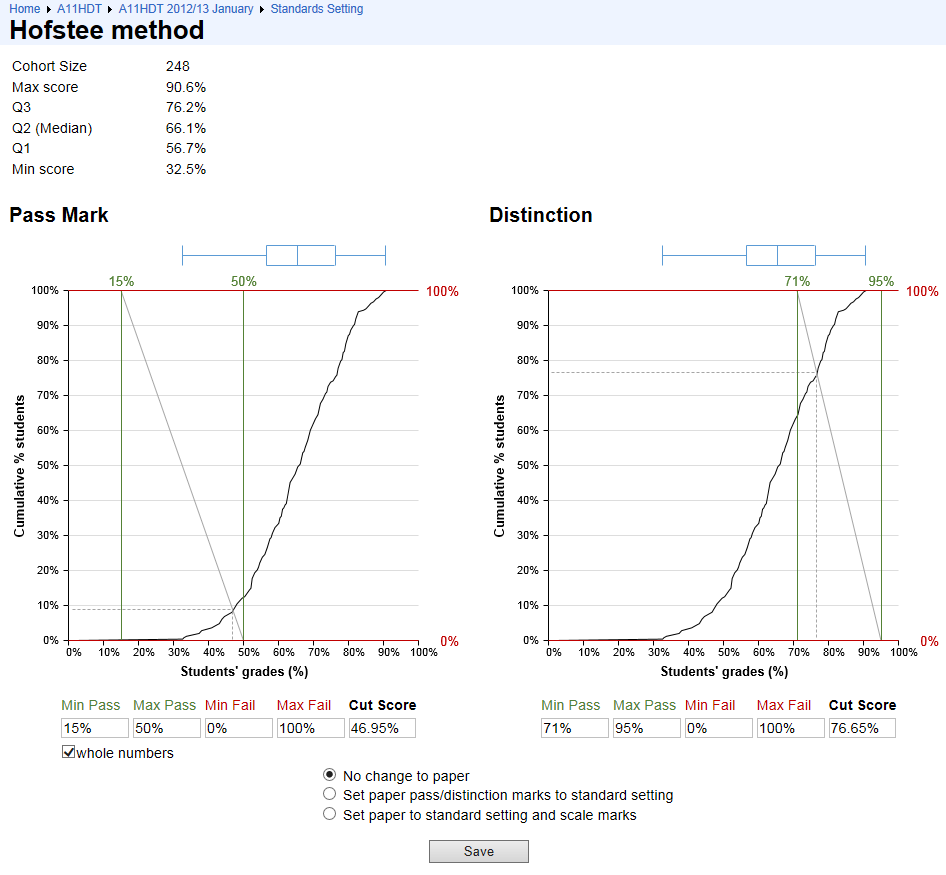
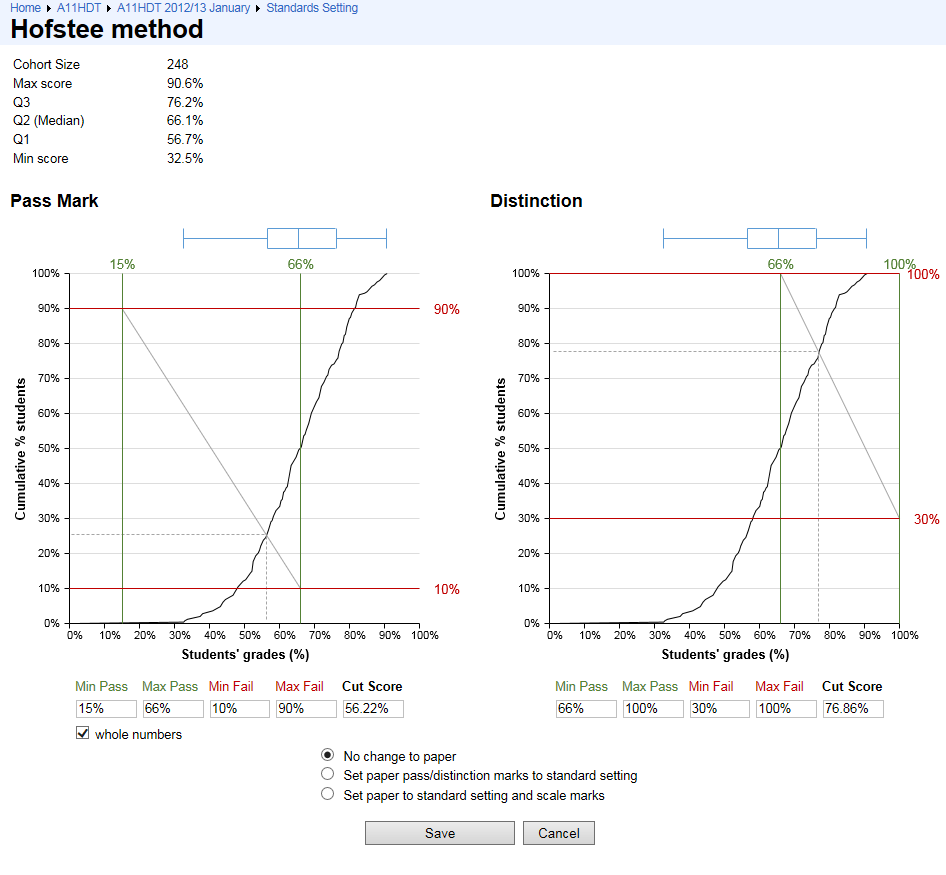
Help updates

diff --git a/css/properties.css b/css/properties.css
@@ -1,1 +1,1 @@
-body{background-color:#F0F0F0;overflow:hidden}table{text-align:left}#modules_list input[type="checkbox"]{margin-left:22px}#labs_list input[type="checkbox"]{margin-left:22px}.r1{text-indent:-23px;padding-left:23px;background-color:#fff}.r2{text-indent:-23px;padding-left:23px;background-color:#FFBD69}.r1disabled{text-indent:-23px;padding-left:23px;background-color:#fff;color:gray}.r2disabled{text-indent:-23px;padding-left:23px;background-color:#DDD;color:gray}extarea,input[type=text],select,textarea,input[type=password]{border:1px solid #ABADB3}.headbar{background-color:#EEE;border-bottom:1px solid #E2E4E7}.tab{height:25px;padding-left:6px;cursor:default}.tab:hover{background-color:#FFE7A2}.tabon{height:25px;padding-left:6px;cursor:default;background-color:#FFBD69}.tabtitle{background-color:#C2D5F3;height:49px;font-size:110%;padding:0 0 0 16px}.tabtitle img{width:34px;height:34px;padding-left:10px;padding-right:10px}.tabsection{width:100%;font-size:90%;height:590px;border-spacing:0}.tabsection td{padding:0}.cellpad2 td{padding:2px}.cellpad6 td{padding:6px}.cancel{margin-right:0}.greySkin table.mceLayout{border-left:0!important;border-right:0!important}.greySkin table.mceLayout tr.mceLast td{border-bottom:0!important}
+body{background-color:#F0F0F0;overflow:hidden}table{text-align:left}#modules_list input[type="checkbox"]{margin-left:4px}.mod{text-indent:0;margin-left:18px}#labs_list input[type="checkbox"]{margin-left:22px}.r1{text-indent:-23px;padding-left:23px;background-color:#fff}.r2{text-indent:-23px;padding-left:23px;background-color:#FFBD69}.r1disabled{text-indent:-23px;padding-left:23px;background-color:#fff;color:gray}.r2disabled{text-indent:-23px;padding-left:23px;background-color:#DDD;color:gray}extarea,input[type=text],select,textarea,input[type=password]{border:1px solid #ABADB3}.headbar{background-color:#EEE;border-bottom:1px solid #E2E4E7}.tab{height:25px;padding-left:6px;cursor:default}.tab:hover{background-color:#FFE7A2}.tabon{height:25px;padding-left:6px;cursor:default;background-color:#FFBD69}.tabtitle{background-color:#C2D5F3;height:49px;font-size:110%;padding:0 0 0 16px}.tabtitle img{width:34px;height:34px;padding-left:10px;padding-right:10px}.tabsection{width:100%;font-size:90%;height:590px;border-spacing:0}.tabsection td{padding:0}.cellpad2 td{padding:2px}.cellpad6 td{padding:6px}.cancel{margin-right:0}.greySkin table.mceLayout{border-left:0!important;border-right:0!important}.greySkin table.mceLayout tr.mceLast td{border-bottom:0!important}

diff --git a/css/source/properties.css b/css/source/properties.css
@@ -6,7 +6,11 @@ table {
   text-align: left;
 }
 #modules_list input[type="checkbox"] {
-  margin-left: 22px;
+  margin-left: 4px;
+}
+.mod {
+  text-indent: 0;
+  margin-left: 18px;
 }
 #labs_list input[type="checkbox"] {
   margin-left: 22px;

diff --git a/paper/properties.php b/paper/properties.php
@@ -954,6 +954,7 @@ if ($configObject->get('cfg_summative_mgmt') and $properties->get_paper_type() =
   <link rel="stylesheet" type="text/css" href="../css/properties.css"/>
 
   <script type="text/javascript" src="../js/jquery-1.11.1.min.js"></script>
+  <script type="text/javascript" src="../js/jquery-migrate-1.2.1.min.js"></script>
   <script type="text/javascript" src="../js/jquery.validate.min.js"></script>
   <script type="text/javascript" src="../js/jquery-ui-1.10.4.min.js"></script>
   <script type="text/javascript" src="../js/system_tooltips.js"></script>
@@ -1867,12 +1868,12 @@ if ($properties->get_paper_type() != '4' and $properties->get_paper_type() != '5
         }
         if ($match == true) {
           if (in_array($module['id'], $staff_modules) or $userObject->has_role('SysAdmin')) {
-            echo "<div class=\"r2\" id=\"divmod$module_no\"><input type=\"checkbox\" onclick=\"toggle('divmod$module_no'); getMeta();\" name=\"mod$module_no\" id=\"mod$module_no\" value=\"" . $module['idMod'] . "\" checked $disabled><label for=\"mod$module_no\">" . $module['id'] . ": " . substr($module['fullname'],0,60) . "</label></div>\n";
+            echo "<div class=\"r2 mod\" id=\"divmod$module_no\"><input type=\"checkbox\" onclick=\"toggle('divmod$module_no'); getMeta();\" name=\"mod$module_no\" id=\"mod$module_no\" value=\"" . $module['idMod'] . "\" checked $disabled><label for=\"mod$module_no\">" . $module['id'] . ": " . substr($module['fullname'],0,60) . "</label></div>\n";
           } else {
-            echo "<div class=\"r2\" id=\"divmod$module_no\"><input type=\"checkbox\" name=\"dummymod$module_no\" value=\"" . $module['idMod'] . "\" checked disabled><input type=\"checkbox\" name=\"mod$module_no\" id=\"mod$module_no\" style=\"display:none\" value=\"" . $module['idMod'] . "\" checked><label for=\"mod$module_no\">" . $module['id'] . ": " . substr($module['fullname'],0,60) . "</label></div>\n";
+            echo "<div class=\"r2 mod\" id=\"divmod$module_no\"><input type=\"checkbox\" name=\"dummymod$module_no\" value=\"" . $module['idMod'] . "\" checked disabled><input type=\"checkbox\" name=\"mod$module_no\" id=\"mod$module_no\" style=\"display:none\" value=\"" . $module['idMod'] . "\" checked><label for=\"mod$module_no\">" . $module['id'] . ": " . substr($module['fullname'],0,60) . "</label></div>\n";
           }
         } else {
-          echo "<div class=\"r1\" id=\"divmod$module_no\"><input type=\"checkbox\" onclick=\"toggle('divmod$module_no'); getMeta();\" name=\"mod$module_no\" id=\"mod$module_no\" value=\"" . $module['idMod'] . "\"$disabled><label for=\"mod$module_no\">" . $module['id'] . ": " . substr($module['fullname'],0,60) . "</label></div>\n";
+          echo "<div class=\"r1 mod\" id=\"divmod$module_no\"><input type=\"checkbox\" onclick=\"toggle('divmod$module_no'); getMeta();\" name=\"mod$module_no\" id=\"mod$module_no\" value=\"" . $module['idMod'] . "\"$disabled><label for=\"mod$module_no\">" . $module['id'] . ": " . substr($module['fullname'],0,60) . "</label></div>\n";
         }
         $module_no++;
         $old_school = $module['school'];
